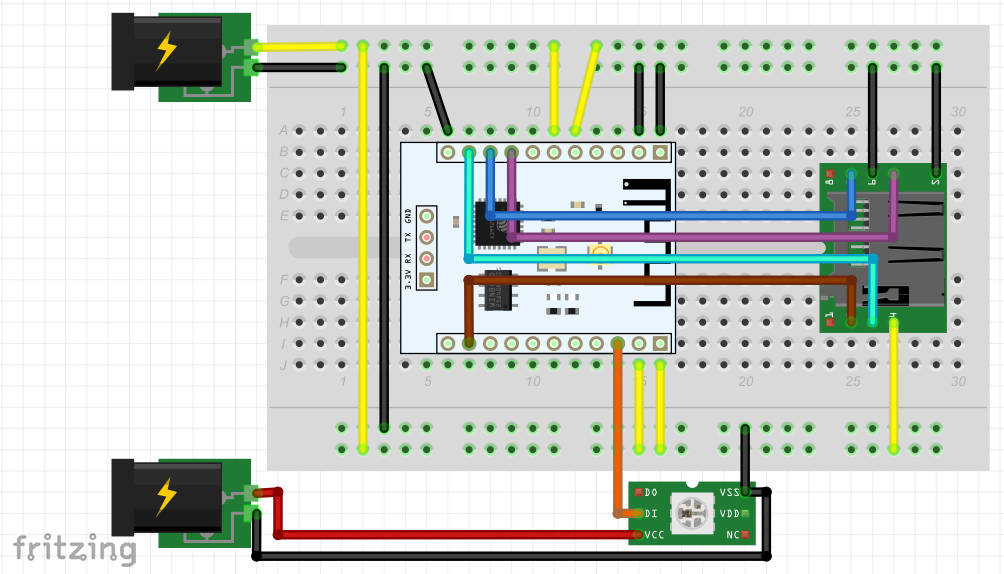
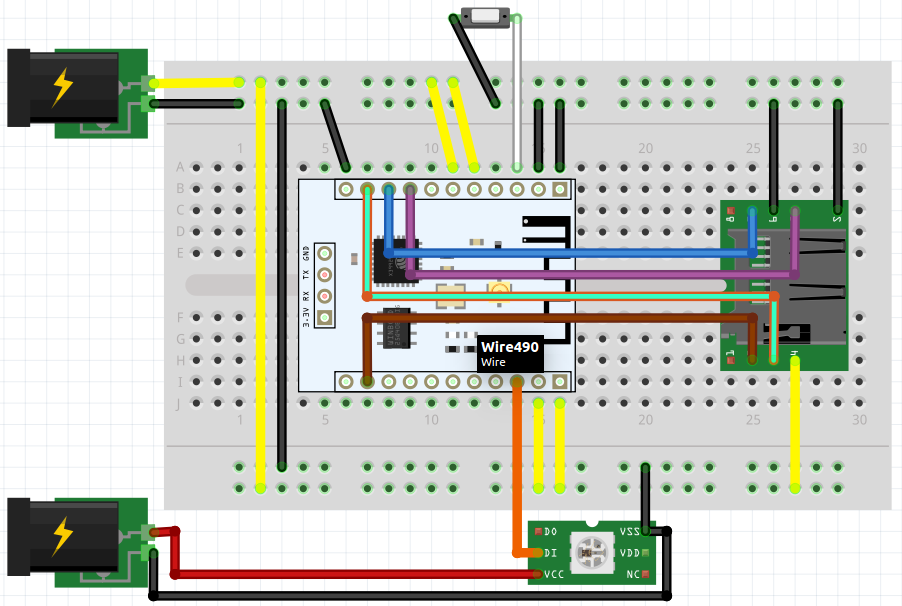
Add forked AnimatedGIFs and update README etc

diff --git a/LightBook/data/include.js b/LightBook/data/include.js
@@ -1,0 +1,30 @@
+// function to add script tag to document and load script
+function addAndLoadScript(scriptSource, callOnLoad) {
+	var tag = document.createElement('script');
+	tag.type = 'text/javascript';
+	tag.src = scriptSource;
+	document.getElementsByTagName('head')[0].appendChild(tag);
+	tag.onreadystatechange = function() {
+		if (this.readyState == 'complete' || this.readyState == 'loaded')
+			this.onload({ target: this });
+	};
+	tag.onload = function() {
+		callOnLoad(scriptSource);
+	};
+}
+
+// function that gets called when a script was loaded
+function scriptLoaded(scriptSource, scriptSources, callWhenAllLoaded) {
+	scriptSources.remove(scriptSource);
+	if (scriptSources.empty()) {
+		callWhenAllLoaded();
+	}
+}
+
+// call this function to load a bunch of scripts and add a function that
+// should be called when loading has finished, e.g. 'initialize_smth'
+function include(scriptSources, callWhenAllLoaded) {
+	for (int source in scriptSources) {
+		addAndLoadScript(source, scriptLoaded.bind(scriptSources, callWhenAllLoaded));
+	}
+}

diff --git a/LightBook/data/index.htm b/LightBook/data/index.htm
@@ -56,5 +56,13 @@
         <a href='#' id='clearButton'>clear</a>
         <a href='http://github.com/HorstBaerbel/LightBook' id='githubButton'>Go to GitHub repository</a>
     </body>
-    <script type='text/javascript' src="index.js"></script> 
+     <script type='text/javascript' src='index.js'></script>
+    <script type='text/javascript'>
+		window.addEventListener('load', initialize, false);
+		window.addEventListener('DOMContentLoaded', initialize, false);
+		window.addEventListener('resize', windowResized, false);
+	</script>
+<!--
+    <script type='text/javascript' src='include.js' onload='requiredScripts = ["index.js"]; include(requiredScripts, initialize());'></script>
+-->
 </html>

diff --git a/LightBook/data/index.js b/LightBook/data/index.js
@@ -1,7 +1,3 @@
-window.addEventListener('load', initialize, false);
-window.addEventListener('DOMContentLoaded', initialize, false);
-window.addEventListener('resize', windowResized, false);
-
 var DISPLAY_WIDTH = 8;
 var DISPLAY_HEIGHT = 8;
 var backBuffer = new Uint8Array(DISPLAY_WIDTH * DISPLAY_HEIGHT * 3);

diff --git a/LightBook/data/upload.htm b/LightBook/data/upload.htm
@@ -1,0 +1,6 @@
+<!DOCTYPE html>
+<html>
+    <head>
+        <title>LightBook Upload</title>
+    <script type='text/javascript' src="index.js"></script>
+</html>

diff --git a/README.md b/README.md
@@ -1,3 +1,5 @@
+This repository contains two similar projects: LightBook and GIFBook:  
+
 LightBook
 ========
 LightBook is a project that uses an ESP8266-201 module, a SD card and a WS2812 RGB LED strip (arranged as a 8*8 array) as a WiFi-enabled interactive canvas. The ESP8266 WiFi access point serves a minimalistic web page that can be used to "paint" on the LED display. The whole electronics are packaged in an old book to be put into a bookshelf.  
@@ -11,19 +13,29 @@ This circuit uses GPIO 2 and 12-14 for the SD card interface and GPIO 4 for the 
 Some general ESP8266 GPIO info is here: http://www.esp8266.com/wiki/doku.php?id=esp8266_gpio_pin_allocations and a ESP-201 pinout is here: http://adlerweb.deviantart.com/art/ESP8266-ESP-201-Module-Pinout-Diagram-Cheat-Sheet-575951137  
 The web page served look something like this and allows for simple pixel-painting on the display:  
 ![LightBook web page served](webpage.png?raw=true)  
-Planned features are a way to make animations and to store animations on the SD card.
+
+GIFBook
+========
+GIFBook is a project that uses an ESP8266-201 module, a SD card and a WS2812 RGB LED strip (arranged as a 8*8 array) as a WiFi-enabled GIF player. You can toggle the GIF being played using a button.  
+The code is written for the ESP8266 Arduino IDE and uses FastLED for driving the LED strip. WebSockets are used to exchange binary messages between JavaScript and the ESP module.  
+The [Fritzing](http://fritzing.org/) circuit layout can be found in [LightBook_SD.fzz](LightBook_SD.fzz) and the necessary Arduino source code in [GIFBook/GIFBook.ino](GIFBook/GIFBook.ino).  
+GIFbook plays 8x8 (and ONLY 8x8) GIFs from the /gifs folder on the SD card. It start with the first GIF (which is btw the GIF file copied to SD card first) and you can skip to the next GIF by short-pressing the button connnected to GPIO5.  
 
 License
 ========
 [BSD-2-Clause](http://opensource.org/licenses/BSD-2-Clause), see [LICENSE.md](LICENSE.md).  
+AnimatedGIFs uses the [MIT license](https://opensource.org/licenses/MIT), see [LICENSE.txt](AnimatedGIFs/LICENSE.txt).  
+I hope those are compatible...
 
 Compiling
 ========
-Make sure you have a recent Arduino IDE version (1.6.9+) and [support for the ESP8266](https://github.com/esp8266/Arduino). You may also need the most recent [FastLED](https://github.com/FastLED/FastLED) version. The content of the data folder should go to your FAT32-formatted SD card.
+Make sure you have a recent Arduino IDE version (1.6.9+) and [support for the ESP8266](https://github.com/esp8266/Arduino). You may also need the most recent [FastLED](https://github.com/FastLED/FastLED) version. The content of the data folder should go to your FAT32-formatted SD card.  
+To compile GIFBook you additionally need the wonderful [AnimatedGIFs](https://github.com/pixelmatix/AnimatedGIFs) project by [pixelmatix](https://github.com/pixelmatix) that I cloned into the AnimatedGIFs directory as a submodule. Copy the whole AnimatedGIFs folder to your Arduino library directory.
 
 Usage
 ========
-Power up the circuit, connect to the AP, browse to [http://lightbook](http://lightbook) and go paint something nice :)
+For LightBook, power up the circuit, connect to the AP, browse to [http://lightbook](http://lightbook) and go paint something nice :)  
+For GIFBook, just power it on and push the button to show the next GIF.
 
 I found a bug or have a suggestion
 ========
